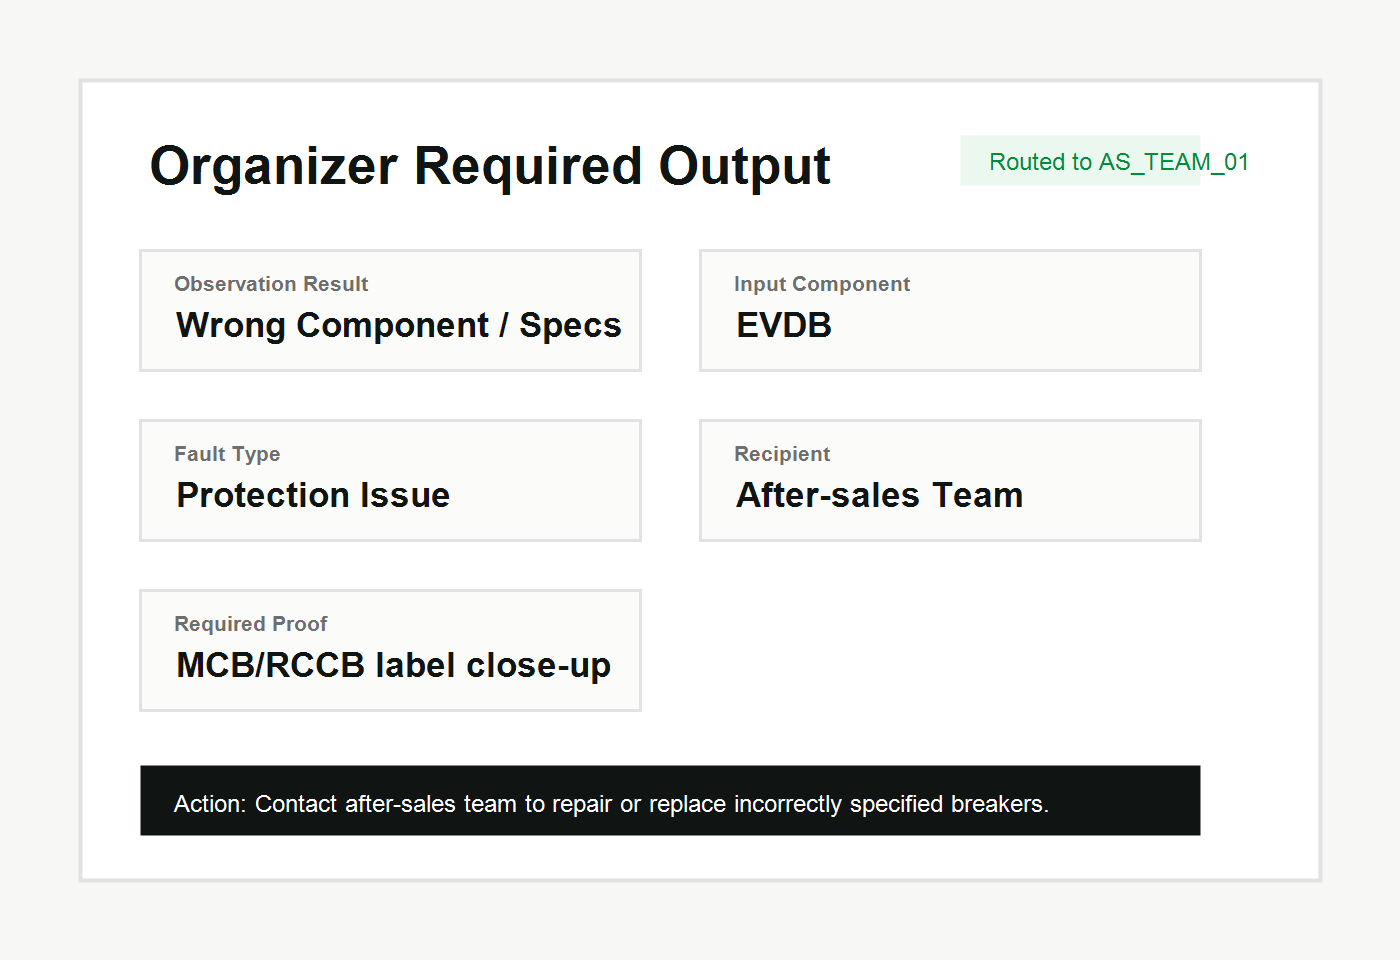
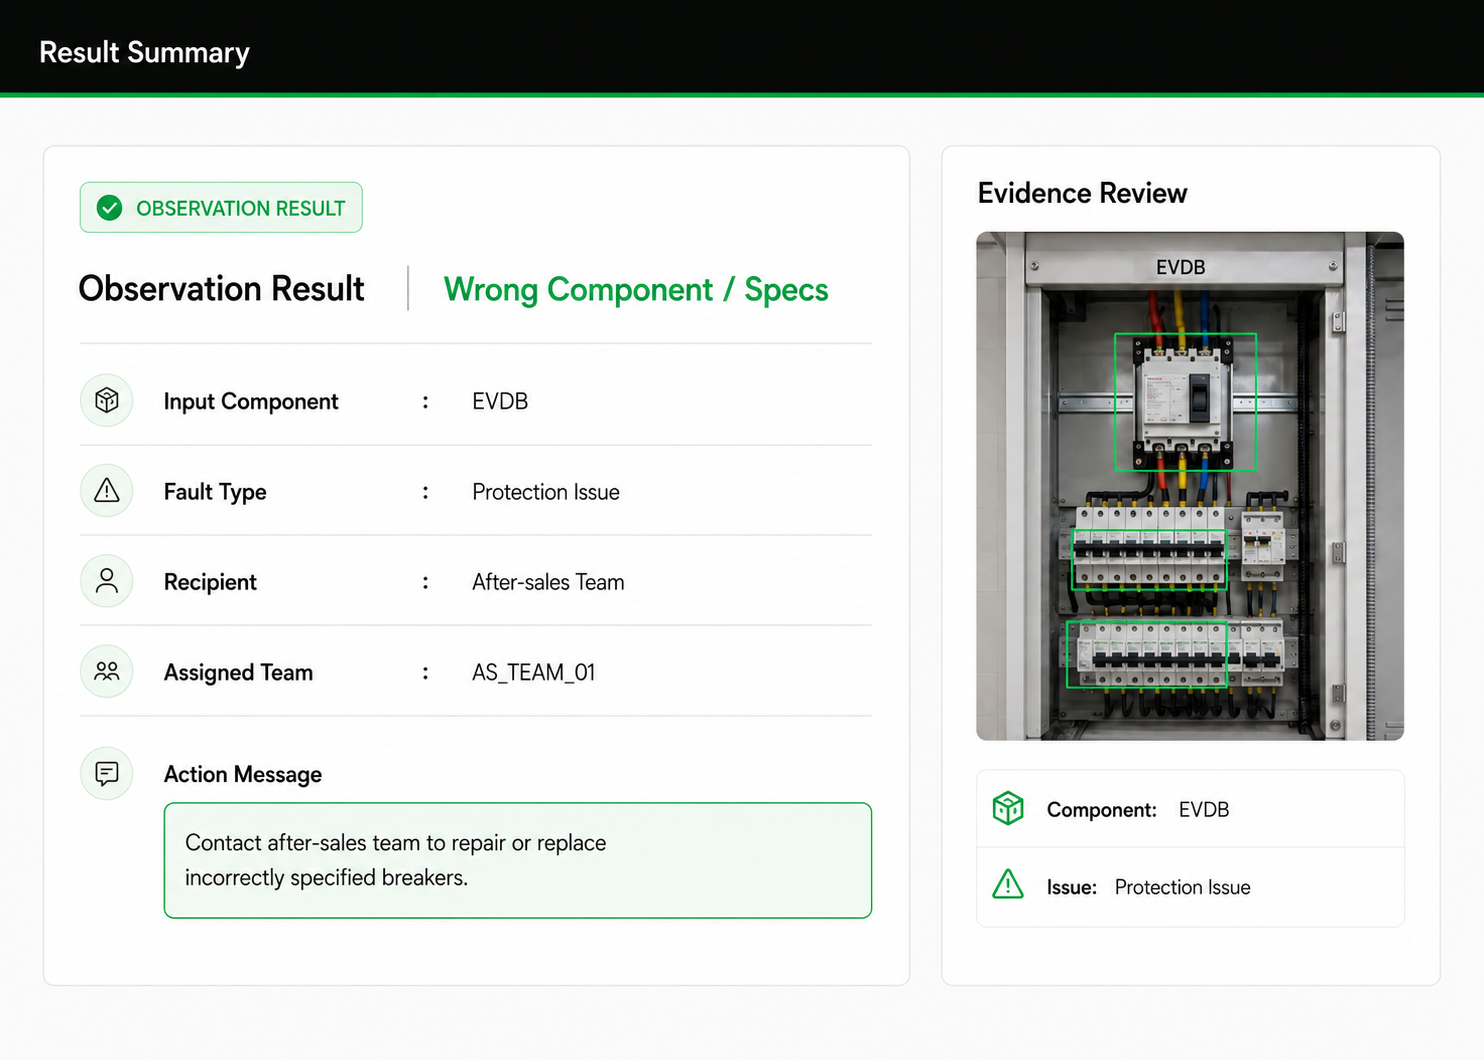
Apply final landing page image assets

diff --git a/frontend/components/landing/landing-page.tsx b/frontend/components/landing/landing-page.tsx
@@ -42,15 +42,18 @@ const navItems = [
 ];
 
 const images = {
-  hero: "/landing/hero-ev-charger-wall.jpg",
-  charger: "/landing/card-charger-unit.jpg",
-  evdb: "/landing/card-evdb.jpg",
-  isolator: "/landing/card-isolator.jpg",
-  preview: "/landing/preview-evdb-case.jpg",
-  proof: "/landing/proof-closeup-photo.jpg",
-  noLight: "/landing/case-charger-no-light.jpg",
-  isolatorOff: "/landing/case-isolator-off.jpg",
+  hero: "/landing/hero-ev-charger-wall.png",
+  charger: "/landing/card-charger-unit.png",
+  evdb: "/landing/card-evdb.png",
+  isolator: "/landing/card-isolator.png",
+  preview: "/landing/preview-evdb-case.png",
+  proof: "/landing/proof-closeup-photo.png",
+  noLight: "/landing/case-charger-no-light.png",
+  isolatorOff: "/landing/case-isolator-off.png",
   mockDashboard: "/landing/mock-dashboard-result.png",
+  darkTexture: "/landing/bg-dark-charger-texture.png",
+  arrows: "/landing/rex-green-arrows.svg",
+  circuit: "/landing/bg-circuit-lines.svg",
 };
 
 function PillCta({ href, children, dark = false }: { href: string; children: React.ReactNode; dark?: boolean }) {
@@ -190,7 +193,7 @@ function HeroSection() {
       <motion.img
         src={images.hero}
         alt="EV charger mounted on a wall"
-        className="absolute inset-0 h-full w-full object-cover opacity-75"
+        className="absolute inset-0 h-full w-full object-cover object-[center_right] opacity-75"
         initial={{ scale: 1 }}
         animate={{ scale: 1.06 }}
         transition={{ duration: 14, repeat: Infinity, repeatType: "reverse", ease: "easeInOut" }}
@@ -241,6 +244,12 @@ function HeroSection() {
           </div>
         </motion.div>
       </div>
+      <img
+        src={images.arrows}
+        alt=""
+        aria-hidden="true"
+        className="pointer-events-none absolute bottom-10 right-10 z-10 hidden w-28 opacity-75 lg:block"
+      />
       <ScrollDots />
     </section>
   );
@@ -318,8 +327,14 @@ function ProblemSection() {
   ];
 
   return (
-    <SectionFrame className="landing-section bg-[var(--rex-bg-soft)]">
-      <div className="landing-container grid gap-12 lg:grid-cols-[0.95fr_1.05fr] lg:items-center">
+    <SectionFrame className="landing-section relative overflow-hidden bg-[var(--rex-bg-soft)]">
+      <img
+        src={images.circuit}
+        alt=""
+        aria-hidden="true"
+        className="pointer-events-none absolute right-0 top-0 hidden h-full w-1/2 object-cover opacity-[0.06] lg:block"
+      />
+      <div className="landing-container relative z-10 grid gap-12 lg:grid-cols-[0.95fr_1.05fr] lg:items-center">
         <motion.div {...fadeUp}>
           <p className="landing-kicker mb-4">Field support problem</p>
           <h2 className="text-3xl font-bold leading-tight text-[var(--rex-charcoal)] md:text-5xl">Manual troubleshooting slows down simple fixes.</h2>
@@ -352,6 +367,12 @@ function WorkflowSection() {
     <SectionFrame id="workflow" className="landing-section bg-white">
       <div className="landing-container">
         <SectionIntro kicker="Workflow" title="Upload -> Observe -> Classify -> Route" />
+        <img
+          src={images.arrows}
+          alt=""
+          aria-hidden="true"
+          className="pointer-events-none mx-auto -mt-5 mb-8 w-20 opacity-70 md:w-28"
+        />
         <div className="relative grid gap-6 md:grid-cols-4">
           <div className="absolute left-0 right-0 top-12 hidden h-px bg-[var(--rex-line)] md:block" />
           <div className="absolute left-0 top-12 hidden h-px w-2/3 bg-[var(--rex-green)] md:block" />
@@ -533,9 +554,15 @@ function MvpAlignmentSection() {
   const outputs = ["Observation Result", "Serial + Brand/Model", "Fault Type", "Customer / After-sales Routing"];
 
   return (
-    <SectionFrame className="bg-[var(--rex-bg-soft)] py-16">
-      <div className="landing-container">
-        <motion.div {...fadeUp} className="grid gap-8 rounded-[28px] bg-white p-8 shadow-sm lg:grid-cols-[0.8fr_1.2fr] lg:items-center">
+    <SectionFrame className="relative overflow-hidden bg-[var(--rex-bg-soft)] py-16">
+      <img
+        src={images.circuit}
+        alt=""
+        aria-hidden="true"
+        className="pointer-events-none absolute inset-y-0 left-0 hidden w-1/3 object-cover opacity-[0.055] lg:block"
+      />
+      <div className="landing-container relative z-10">
+        <motion.div {...fadeUp} className="grid gap-8 rounded-[28px] bg-white/95 p-8 shadow-sm lg:grid-cols-[0.8fr_1.2fr] lg:items-center">
           <div>
             <p className="landing-kicker mb-4">Theme 2 MVP</p>
             <h2 className="text-3xl font-bold leading-tight text-[var(--rex-charcoal)]">Built for Theme 2&apos;s required outputs.</h2>
@@ -557,16 +584,29 @@ function MvpAlignmentSection() {
 
 function FinalCtaSection() {
   return (
-    <SectionFrame className="relative overflow-hidden bg-white py-24 text-center md:py-32">
+    <SectionFrame className="relative overflow-hidden bg-[var(--rex-dark)] py-24 text-center text-white md:py-32">
+      <img
+        src={images.darkTexture}
+        alt=""
+        aria-hidden="true"
+        className="pointer-events-none absolute inset-0 h-full w-full object-cover opacity-[0.45]"
+      />
+      <div className="absolute inset-0 bg-[linear-gradient(90deg,rgba(5,8,7,0.92)_0%,rgba(5,8,7,0.76)_48%,rgba(5,8,7,0.48)_100%)]" />
+      <img
+        src={images.arrows}
+        alt=""
+        aria-hidden="true"
+        className="pointer-events-none absolute bottom-10 right-10 hidden w-24 opacity-80 md:block"
+      />
       <div className="landing-container relative z-10">
         <motion.div {...fadeUp} className="mx-auto max-w-3xl">
-          <p className="landing-kicker mb-4">Start report</p>
-          <h2 className="text-4xl font-extrabold leading-tight text-[var(--rex-charcoal)] md:text-6xl">Start a guided charger fault report.</h2>
-          <p className="mx-auto mt-6 max-w-xl text-lg leading-8 text-[var(--rex-muted)]">Open the dashboard, upload evidence, and generate a structured support result.</p>
+          <p className="mb-4 text-xs font-extrabold uppercase tracking-[0.16em] text-[var(--rex-green)]">Start report</p>
+          <h2 className="text-4xl font-extrabold leading-tight md:text-6xl">Start a guided charger fault report.</h2>
+          <p className="mx-auto mt-6 max-w-xl text-lg leading-8 text-white/72">Open the dashboard, upload evidence, and generate a structured support result.</p>
           <div className="mt-9">
             <PillCta href="/upload">Go to Dashboard</PillCta>
           </div>
-          <p className="mt-5 text-sm font-semibold text-[var(--rex-muted)]">Demo mode is available for judge walkthroughs.</p>
+          <p className="mt-5 text-sm font-semibold text-white/62">Demo mode is available for judge walkthroughs.</p>
         </motion.div>
       </div>
     </SectionFrame>